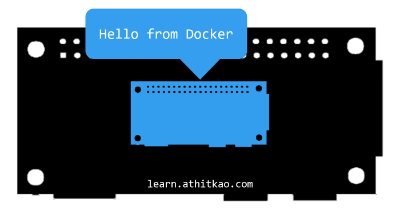
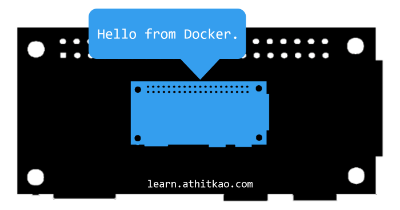
Updates to Introduction to Virtualization.

Changed region(s): [[0.21, 0.0286, 0.63, 0.2857]]

diff --git a/virtual/README.md b/virtual/README.md
@@ -25,12 +25,12 @@
 * [4. Your First Container](#4-your-first-container)
 * [5. Craft Container](#5-craft-container)
 * [6. Nextcloud Container](#6-nextcloud-container)
-* [7. Docker Files](#7-docker-files)
-* [8. Epilogue](#8-epilogue)
-* [9. Next Steps](#9-next-steps)
+* [7. Epilogue](#7-epilogue)
+* [8. Next Steps](#8-next-steps)
 
 ### Supplemental
 
+* [`Dockerfile`s](#dockerfiles)
 * [Need More Containers?](#need-more-containers)
 * [Other Resources](#other-resources)
 * [Troubleshooting](#troubleshooting)
@@ -169,9 +169,9 @@ $ sudo systemctl enable docker && \
 
 ## 4. Your First Container
 
-**A container is the virtual simulation of another computer within your computer**
-
-[![.img/step04a.png](.img/step04a.png)](#nolink)
+> **A container is the virtual simulation of another computer _within_ your computer**
+>
+> [![.img/step04a.png](.img/step04a.png)](#nolink)
 
 ### 4.1. Download and run
 
@@ -181,7 +181,7 @@ $ sudo systemctl enable docker && \
 $ docker run --name my_first_container hypriot/armhf-hello-world
 ```
 
-* You can see the message of "`Hello from Docker`" in your console coming from the virtualized Linux computer in your Pi
+* You can see the message of "`Hello from Docker.`" in your console coming from the virtualized Linux computer in your Pi
 
 [![.img/step04b.png](.img/step04b.png)](#nolink)
 
@@ -245,13 +245,14 @@ $ cd ~ && mkdir Craft && cd ~/Craft && \
 
 ### 5.2. Image build
 
-* Now that we have the instructions, let's build the image:
-   * Coffee break #2: **This will take about 60 mins. to build**, but you can review the next point which talks about the anatomy of a `Dockerfile` while you wait
-   * **IMPORTANT**: At about an hour, if you don't see the terminal going back to "`pi@raspberrypi:~/Craft $ _`" the screen may be "stuck", just click on the terminal and press Enter a couple times
+* Now that we have the instructions, let's build the image by running this next command:
+   * Coffee break #2: **This will take 45 mins. to build**, but you can review the next point which talks about the anatomy of a `Dockerfile` while you wait
 
-```
-$ docker image build -t craft_image .
-```
+> ```
+> $ docker image build -t craft_image .
+> ```
+>
+> **IMPORTANT**: After 45 mins., if you don't see the terminal going back to "`pi@raspberrypi:~/Craft $ _`" the screen may be "stuck", just click on the terminal and press Enter a couple times
 
 **While Docker builds the image, let's take a look at the
  `Dockerfile`**
@@ -291,15 +292,15 @@ $ docker run -d -p 4080:4080 --name craft_container craft_image
 
 ### 5.5. Cleanup
 
-* Once you're done playing some Craft, let's erase this container for now (this will not erase the underlying image you just spent an hour building)
+* Once you're done playing some Craft, let's erase this container for now (this won't erase the underlying image you built)
 
 ```
 $ docker rm craft_container
 ```
 
 * **Oh no!** Looks like we can't erase an actively running container
-* Unlike our first container that just printed out "`Hello from Docker`" and shut itself down, `craft_container` will remain active
-* Let's stop the container, remove (a.k.a erase) it, and confirm it's gone:
+* Unlike our first container that just printed out "`Hello from Docker.`" and shut itself down, `craft_container` will remain active
+* Let's stop the container first, then erase it (and confirm it's gone):
 
 ```
 $ docker stop craft_container
@@ -331,24 +332,25 @@ $ cd ~ && mkdir Nextcloud && cd ~/Nextcloud && \
 ### 6.2. Image build
 
 * Now that we have the instructions, let's build the image:
-   * Coffee break #3: This will take about 20 mins. to build, but you can review the next point which talks about the anatomy of a `Dockerfile` while you wait
-   * **IMPORTANT**: At about an hour, if you don't see the terminal going back to "`pi@raspberrypi:~/Craft $ _`" the screen may be "stuck", just click on the terminal and press Enter a couple times
+   * Coffee break #3: This will take 20 mins. to build, but you can review the next point which talks saving time with layers
 
-```
-$ docker image build -t nextcloud_image .
-```
+> ```
+> $ docker image build -t nextcloud_image .
+> ```
+> 
+> **IMPORTANT**: At about 20 mins., if you don't see the terminal going back to "`pi@raspberrypi:~/Craft $ _`" the screen may be "stuck", just click on the terminal and press Enter a couple times
 
 **While Docker builds the image, let's talk about "`layers`"**
 
-* _Did you notice that the first few commands ran almost instantaneously?_
-* That's because the previous Craft image we built already downloaded the base image and ran the same first four commands
-* **Docker will save similar layers to save time**: This probably shaved off a good 10 minutes!
+* _Did you notice that the first few `Dockerfile` commands ran almost instantaneously?_
+* That's because the previous Craft image build already downloaded the base image and ran the same first four commands
+* **Docker will keep these layers to save time**: This probably shaved off a good 10 minutes!
 
 [![.img/step06a.png](.img/step06a.png)](#nolink)
 
 ### 6.3. Deploy container
 
-* Once the image is done building, we will deploy a container based on "`nexctloud_image`":
+* Once the image is done building, we will deploy a container named "`nextcloud_container`" based on "`nexctloud_image`" we built:
 
 ```
 $ docker run -d -p 80:80 --name nextcloud_container nextcloud_image
@@ -356,41 +358,145 @@ $ docker run -d -p 80:80 --name nextcloud_container nextcloud_image
 
 ### 6.4. Connect to Nextcloud server
 
-* You can now connect to the `nextcloud_container` by the Pi's IP address from you web browser
-* **Trying to setup the same way before produced an error!**
-* It looks like we never setup the MariaDB database...
+* You can now connect to the `nextcloud_container` by the Pi's IP address from your web browser
+   * Choose a username and password for the Nextcloud administrator account
+   * Data Folder: Leave as default "/var/www/html/nextcloud/data"
+   * Database user: "ncuser"
+   * Database password: "password"
+   * Database name: "nextcloud"
+   * Database host: "localhost"
 
 [![.img/step06b.png](.img/step06b.png)](#nolink)
 
-[Back to Top](#table-of-contents)
+* **Trying to setup the same way as before produced an error!**
+* Looks like we never actually setup the MariaDB database...
+* **We must shut down and erase** the `nextcloud_container` before we move on:
+
+> ```
+> $ docker stop nextcloud_container && \
+>   docker rm nextcloud_container
+> ```
+> 
+> **IMPORTANT**: Shut down and erase the `nextcloud_container` before moving on
 
 ### 6.5. "_One service per container_"
 
+> Docker best practice is to "containerize" individual services separately (e.g. web server, database, etc.)
+> 
+> [![.img/step06f.png](.img/step06f.png)](#nolink)
 
+* Let's run a separate MariaDB container for Nextcloud from my Docker Hub:
+
+```
+$ docker run -d --name mariadb_container atetkao/mariadb_image:latest
+```
+
+[![.img/step06c.png](.img/step06c.png)](#nolink)
+
+* Now that the previous `nextcloud_container` is erased, we will make a new one that "links" to the `mariadb_container`:
+
+```
+$ docker run -d -p 80:80 --name nextcloud_container --link mariadb_container nextcloud_image && \
+  docker ps -a
+```
+
+[![.img/step06d.png](.img/step06d.png)](#nolink)
+
+* Now that we see both `nextcloud_container` and `mariadb_container` up and running, we can go back to our web browser and successfully finish the Nextcloud setup:
+   * Use the same credentials above **BUT change database host to: "mariadb_container"**
+   * Setup processing will take ~5 mins.
+
+[![.img/step06e.png](.img/step06e.png)](#nolink)
+
+### 6.6. Cleanup
+
+* You now have a fully functioning Nextcloud file server, but **don't use it for real quite yet!**
+   * **WARNING: Any files saved on this Nextcloud container will be erased when the containers shut down!**
+   * There are a few more bits and pieces to make data persistent which won't be covered here
+* Before we shut everything down, let's have some fun and start back up the Craft container:
+
+```
+$ docker run -d -p 4080:4080 --name craft_container craft_image
+```
+[![.img/step06g.png](.img/step06g.png)](#nolink)
+
+**Wow, not bad for a $10 computer to be running all this!**
+
+* Let's shut everything down for the night:
+
+```
+$ docker ps -a && \
+  docker stop $(docker ps -a -q) && \
+  docker rm $(docker ps -a -q) && \
+  docker ps -a
+```
+
+[![.img/step06h.png](.img/step06h.png)](#nolink)
+
+[Back to Top](#table-of-contents)
 
 --------------------------------------------------------------------------------------------------
 
-## 7. Docker Files
+## 7. Epilogue
+
+* I hope the practical experience from my three tutorials using the Raspberry Pi illuminates how useful Docker can be:
+   * Test different configurations of your "stack" of services (e.g. Apache + MariaDB) without affecting the host computer
+   * Quickly use other's known configurations
+* Although you can set up the Nextcloud container to persist data, for the most part, Docker containers are meant to be "ephemeral" (i.e. they do their thing and then disappear)
+
+> [![.img/step08a.png](.img/step08a.png)](#nolink)
+> 
+> _Mr. Meeseeks<sup>[[2]](#acknowledgments)</sup> are summoned to perform a single job and disappear_
+
+* We ran multiple containers in the last section; just know that if the service you're containerizing needs to connect to the "outside" (e.g. the Apache webserver needs to serve webpages to your browser), **it must be using an unassigned port**:
+
+> [![.img/step08b.png](.img/step08b.png)](#nolink)
+>
+> _The three containers are each using different ports: 4080, 80, and 3306_
+
+[Back to Top](#table-of-contents)
+
+--------------------------------------------------------------------------------------------------
+
+## 8. Next Steps
+
+**We touched on a bunch of different IT tasks here; you're easily on your way to becoming a self-sufficient ["techie"](https://www.merriam-webster.com/dictionary/techie), it just takes a lot of experimenting and completing projects like this**
+
+* Try this tutorial one more time to solidify these concepts
+* See how many containers you can run on your Pi Zero
+* Explore more advanced topics such as [persisting data with volumes](https://docs.docker.com/storage/volumes/)
+* Read [more about `Dockerfiles`](https://docs.docker.com/v17.09/engine/userguide/eng-image/dockerfile_best-practices/)
+
+[Back to Top](#table-of-contents)
+
+--------------------------------------------------------------------------------------------------
+
+## `Dockerfile`s
 
 **A quick recap on `Dockerfile`s**
 
+### A. The anatomy of a `Dockerfile`
+
 * These files must be named "`Dockerfile`", so if you have multiples, organize them by differently named directories
+* They lists out all the commands we ran in the other tutorials with a few extra Docker syntax (e.g. "`FROM`",  "`RUN`", etc.)
+* A brief description of each section of commands from Craft server's `Dockerfile`:
 
-[Back to Top](#table-of-contents)
+> [![.img/step05a.png](.img/step05a.png)](#nolink)
+> 
+> 1. "`FROM`" is a base image that this new image will start off from
+> 2. Downloading all the dependencies
+> 3. Downloading Craft files from GitHub
+> 4. Building the Craft server program
+> 5. Making a change to the "`server.py`" file
+> 6. "`EXPOSE`" will allow the outside world to communicate to the container
+> 7. "`CMD`" will run the "`server.py`" program
 
---------------------------------------------------------------------------------------------------
+### B. Layers
 
-## 8. Epilogue
+* Docker will reuse the same images and layers to save time
+* We've seen this when we built the Nextcloud image after the Craft image:
 
-[Back to Top](#table-of-contents)
-
---------------------------------------------------------------------------------------------------
-
-## 9. Next Steps
-
-
-
-
+[![.img/step06a.png](.img/step06a.png)](#nolink)
 
 [Back to Top](#table-of-contents)
 
@@ -398,11 +504,26 @@ $ docker run -d -p 80:80 --name nextcloud_container nextcloud_image
 
 ## Need More Containers?
 
-* The Raspberry Pi Zero is amazing for its price point, [but it's not going to run multiple containters](); this brand has other more powerful and more expensive computers if you need the horsepower
+* The Raspberry Pi Zero is amazing for its price point, [but it's not going to run multiple containters]()
+* This brand has other more powerful computers if you need the horsepower, or you can look into **Docker Swarm** to cluster together multiple Pi Zeros: https://blog.hypriot.com/post/how-to-setup-rpi-docker-swarm/
 
-> [![.img/nmc.png](.img/nmc.png)](#nolink)
->
-> 
+[![.img/nmc.png](.img/nmc.png)](#nolink)
+
+[Back to Top](#table-of-contents)
+
+--------------------------------------------------------------------------------------------------
+
+## Share Your Build!
+
+**There are several ways to share your build to help your community**
+
+### Github
+
+* Just like the first couple `Dockerfile`s you used, they were simply hosted on my GitHub, e.g. https://raw.githubusercontent.com/atet/learn/master/virtual/Craft/Dockerfile
+
+
+### Docker Hub
+
 
 [Back to Top](#table-of-contents)
 
@@ -431,6 +552,7 @@ Docker seems to be frozen or hanging | Click on the terminal and press Enter a c
 ## Acknowledgments
 
 1. Docker CE (Community Edition), the free, open-source virtualization framework: https://www.docker.com/
+2. Rick and Morty, Mr. Meeseeks © The Cartoon Network, Inc.
 
 [Back to Top](#table-of-contents)
 
